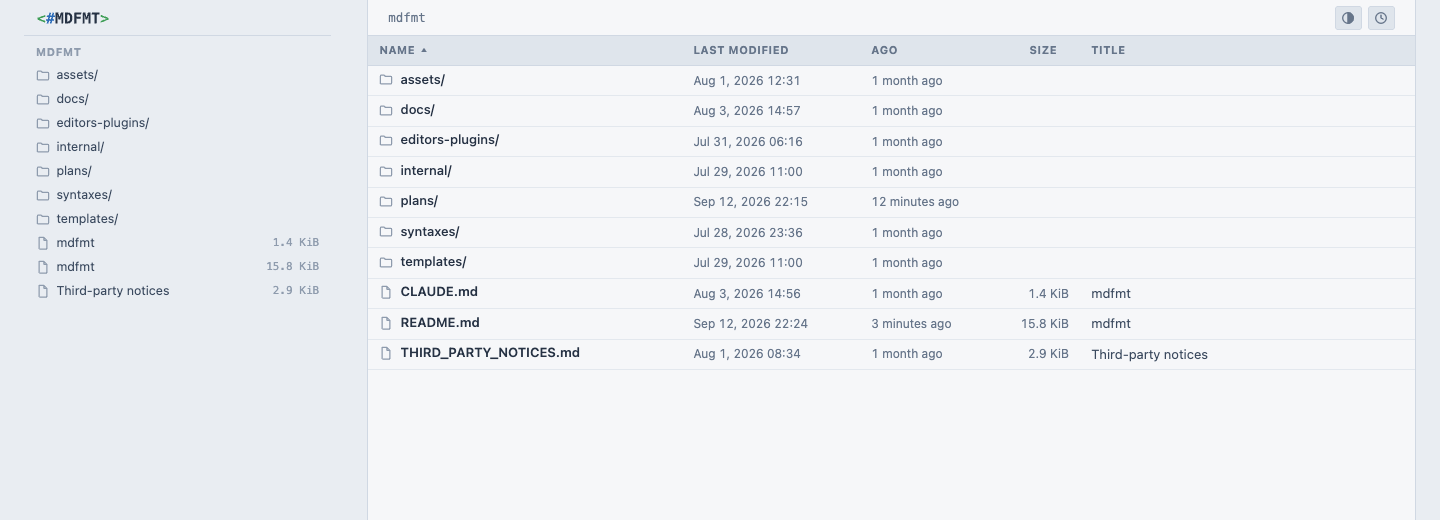
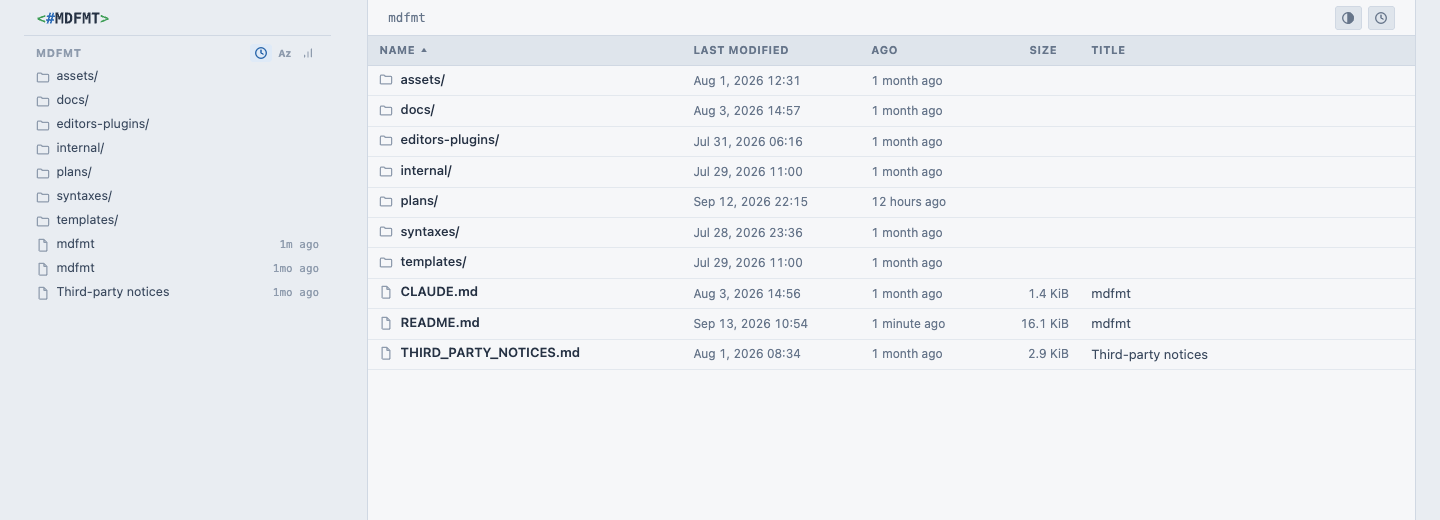
Show ages in the sidebar and add a compact file sort control
- sidebar entries show a live compact age instead of the size, with a
  tooltip carrying the filename, title, modification date, age and size
- a three-button control in the folder heading sorts the entries by most
  recent first (the default), alphabetically, or largest first, with one
  fixed direction per mode; the entry detail switches to sizes when
  sorting by size; the choice persists under its own key, separately
  from the directory table
- the directory table's storage-plus-cookie persistence moved into a shared
  persistedSetting helper used by both sorts; the name comparison uses one
  hoisted collator and each control reads its valid keys off its buttons
- the relative-time refresh keeps its element list and only writes changed
  labels, and the sidebar reorders through a fragment only when the order
  differs
- on narrow screens a tap on the toolbar age reveals the full timestamp
- README note; screenshots retaken

Claude-Session: https://claude.ai/code/session_01KQ5x72pF3KnT7LzZKj2aUm

diff --git a/assets/app.js b/assets/app.js
@@ -119,17 +119,20 @@
       return "just now";
     };
 
+    // The server renders the same strings, so the periodic refresh only
+    // touches an element whose label has actually changed.
+    const relativeTimes = Array.from(document.querySelectorAll("time[data-relative-time]"));
     const updateRelativeTimes = () => {
-      for (const element of document.querySelectorAll("time[data-relative-time]")) {
+      for (const element of relativeTimes) {
         const value = relativeAge(
           element.dateTime,
           element.dataset.relativeStyle === "compact",
         );
-        if (value) element.textContent = value;
+        if (value && element.textContent !== value) element.textContent = value;
       }
     };
     updateRelativeTimes();
-    if (document.querySelector("time[data-relative-time]")) {
+    if (relativeTimes.length) {
       setInterval(updateRelativeTimes, 60 * 1000);
     }
 
@@ -194,7 +197,7 @@
           title.className = "name";
           title.textContent = record.title || record.url;
           const age = document.createElement("span");
-          age.className = "size";
+          age.className = "detail";
           age.textContent = relativeAge(record.updated, true);
           link.append(title, age);
           recentMenu.append(link);
@@ -216,6 +219,12 @@
         recentMenu.hidden = !open;
       });
     }
+
+    // On narrow screens the full timestamp is hidden; a tap on the age
+    // reveals it.
+    document.querySelector(".page-meta time")?.addEventListener("click", (event) => {
+      event.currentTarget.parentElement.classList.toggle("show-detail");
+    });
 
     const topLink = document.querySelector("[data-top]");
     if (topLink) {
@@ -322,26 +331,94 @@
       addEventListener("pagehide", savePosition);
     }
 
+    // A JSON setting kept in localStorage with a path-wide cookie fallback,
+    // so it survives when one of the two is unavailable.
+    const persistedSetting = (storageKey, cookieKey) => ({
+      load: () => {
+        try {
+          const value = JSON.parse(localStorage.getItem(storageKey));
+          if (value) return value;
+        } catch {
+          // Try the cookie below.
+        }
+        try {
+          const prefix = `${cookieKey}=`;
+          const cookie = document.cookie
+            .split(";")
+            .map((part) => part.trim())
+            .find((part) => part.startsWith(prefix));
+          if (!cookie) return null;
+          const serialized = decodeURIComponent(cookie.slice(prefix.length));
+          const value = JSON.parse(serialized);
+          localStorage.setItem(storageKey, serialized);
+          return value;
+        } catch {
+          return null;
+        }
+      },
+      save: (value) => {
+        const serialized = JSON.stringify(value);
+        try {
+          localStorage.setItem(storageKey, serialized);
+        } catch {
+          // Fall through to the path-wide cookie.
+        }
+        try {
+          document.cookie =
+            `${cookieKey}=${encodeURIComponent(serialized)}; Path=/; ` +
+            "Max-Age=31536000; SameSite=Lax";
+        } catch {
+          // The setting still applies to this page when storage is disabled.
+        }
+      },
+    });
+    const collator = new Intl.Collator(undefined, { numeric: true, sensitivity: "base" });
+    const compare = (left, right, key) => {
+      if (key === "name") return collator.compare(left.dataset.name, right.dataset.name);
+      return Number(left.dataset[key]) - Number(right.dataset[key]);
+    };
+    const sortKeysOf = (buttons) => new Set(buttons.map((button) => button.dataset.sortKey));
+
+    // The sidebar file list: one fixed direction per key, most recent first
+    // by default, remembered separately from the directory table.
+    const fileList = document.querySelector("[data-file-list]");
+    const sortControl = document.querySelector("[data-sidebar-sort]");
+    if (fileList && sortControl) {
+      const entries = Array.from(fileList.querySelectorAll("a[data-name]"));
+      const sortButtons = Array.from(sortControl.querySelectorAll("button[data-sort-key]"));
+      const descendingKeys = new Set(["modified", "size"]);
+      const setting = persistedSetting("mdfmt.sidebar-sort", "mdfmt_sidebar_sort");
+      const applyFileSort = (key, persist) => {
+        const sign = descendingKeys.has(key) ? -1 : 1;
+        const ordered = entries.slice().sort((left, right) => sign * compare(left, right, key));
+        if (ordered.some((entry, index) => entry !== entries[index])) {
+          const fragment = document.createDocumentFragment();
+          fragment.append(...ordered);
+          fileList.append(fragment);
+          entries.splice(0, entries.length, ...ordered);
+        }
+        fileList.dataset.sort = key;
+        for (const button of sortButtons) {
+          button.setAttribute("aria-pressed", String(button.dataset.sortKey === key));
+        }
+        if (persist) setting.save(key);
+      };
+      const saved = setting.load();
+      applyFileSort(sortKeysOf(sortButtons).has(saved) ? saved : "modified", false);
+      for (const button of sortButtons) {
+        button.addEventListener("click", () => applyFileSort(button.dataset.sortKey, true));
+      }
+    }
+
     const table = document.querySelector(".directory-table[data-sortable]");
     if (!table) return;
 
     const body = table.querySelector("tbody");
     const buttons = Array.from(table.querySelectorAll("button[data-sort-key]"));
-    const storageKey = "mdfmt.directory-sort";
-    const cookieKey = "mdfmt_directory_sort";
-    const validKeys = new Set(["name", "modified", "size"]);
+    const validKeys = sortKeysOf(buttons);
+    const setting = persistedSetting("mdfmt.directory-sort", "mdfmt_directory_sort");
     let activeKey = "name";
     let direction = "ascending";
-
-    const compare = (left, right, key) => {
-      if (key === "name") {
-        return left.dataset.name.localeCompare(right.dataset.name, undefined, {
-          numeric: true,
-          sensitivity: "base",
-        });
-      }
-      return Number(left.dataset[key]) - Number(right.dataset[key]);
-    };
 
     const applySort = (key, nextDirection, persist) => {
       activeKey = key;
@@ -363,44 +440,10 @@
       const activeButton = buttons.find((button) => button.dataset.sortKey === key);
       activeButton.closest("th").setAttribute("aria-sort", direction);
 
-      if (persist) {
-        const serialized = JSON.stringify({ key, direction });
-        try {
-          localStorage.setItem(storageKey, serialized);
-        } catch {
-          // Fall through to the path-wide cookie.
-        }
-        try {
-          document.cookie =
-            `${cookieKey}=${encodeURIComponent(serialized)}; Path=/; ` +
-            "Max-Age=31536000; SameSite=Lax";
-        } catch {
-          // Sorting still works when browser storage is disabled.
-        }
-      }
+      if (persist) setting.save({ key, direction });
     };
 
-    let saved = null;
-    try {
-      saved = JSON.parse(localStorage.getItem(storageKey));
-    } catch {
-      // Try the cookie below.
-    }
-    if (!saved) {
-      try {
-        const prefix = `${cookieKey}=`;
-        const cookie = document.cookie
-          .split(";")
-          .map((part) => part.trim())
-          .find((part) => part.startsWith(prefix));
-        if (cookie) {
-          saved = JSON.parse(decodeURIComponent(cookie.slice(prefix.length)));
-          localStorage.setItem(storageKey, JSON.stringify(saved));
-        }
-      } catch {
-        // Use the filename-ascending default when storage is unavailable or invalid.
-      }
-    }
+    const saved = setting.load();
     if (
       saved &&
       validKeys.has(saved.key) &&

diff --git a/templates/page.html b/templates/page.html
@@ -22,6 +22,8 @@
 {{define "icon-back"}}<svg class="icon" width="14" height="14" viewBox="0 0 16 16" aria-hidden="true"><path d="M10 3 5 8l5 5"/></svg>{{end}}
 {{define "icon-toc"}}<svg class="icon" width="14" height="14" viewBox="0 0 16 16" aria-hidden="true"><path d="M2.5 4h11M2.5 8h11M2.5 12h7"/></svg>{{end}}
 {{define "icon-recent"}}<svg class="icon" width="14" height="14" viewBox="0 0 16 16" aria-hidden="true"><circle cx="8" cy="8" r="6"/><path d="M8 4.5V8l2.5 1.5"/></svg>{{end}}
+{{define "icon-size"}}<svg class="icon" width="12" height="12" viewBox="0 0 16 16" aria-hidden="true"><path d="M3.5 13.5v-3M8 13.5v-7M12.5 13.5V2.5"/></svg>{{end}}
+{{define "sort-control"}}<span class="sort-control" role="group" aria-label="Sort files" data-sidebar-sort><button type="button" data-sort-key="modified" aria-pressed="false" title="Most recent first" aria-label="Most recent first">{{template "icon-recent"}}</button><button type="button" data-sort-key="name" aria-pressed="false" title="Alphabetical" aria-label="Alphabetical"><span class="glyph">Az</span></button><button type="button" data-sort-key="size" aria-pressed="false" title="Largest first" aria-label="Largest first">{{template "icon-size"}}</button></span>{{end}}
 {{define "icon-edit"}}<svg class="icon" width="12" height="12" viewBox="0 0 16 16" aria-hidden="true"><path d="M11.5 2.5l2 2L5 13H3v-2z"/></svg>{{end}}
 {{define "theme-button"}}<button class="theme-button" type="button" data-theme-toggle data-mode="system" aria-label="Theme: follows system" title="Theme: follows system"><svg class="icon icon-system" width="14" height="14" viewBox="0 0 16 16" aria-hidden="true"><circle cx="8" cy="8" r="6"/><path d="M8 2a6 6 0 0 1 0 12z" fill="currentColor"/></svg><svg class="icon icon-light" width="14" height="14" viewBox="0 0 16 16" aria-hidden="true"><circle cx="8" cy="8" r="3"/><path d="M8 1.5v2M8 12.5v2M1.5 8h2M12.5 8h2M3.4 3.4l1.4 1.4M11.2 11.2l1.4 1.4M3.4 12.6l1.4-1.4M11.2 4.8l1.4-1.4"/></svg><svg class="icon icon-dark" width="14" height="14" viewBox="0 0 16 16" aria-hidden="true"><path d="M13.5 9.5A5.5 5.5 0 0 1 6.5 2.5a5.5 5.5 0 1 0 7 7z"/></svg></button>{{end}}
 {{define "logo"}}<svg viewBox="0 0 493 92.9" width="74" height="14" role="img" aria-label="mdfmt"><path transform="translate(5.70,82.90) scale(0.048828,-0.048828)" class="logo-green" d="M1145 926 350 641 1145 358V109L88 524V760L1145 1176Z"/><path transform="translate(65.91,82.90) scale(0.048828,-0.048828)" class="logo-blue" d="M707 1470 612 1096H815L909 1470H1133L1036 1096H1229V881H983L909 588H1114V373H856L762 0H541L635 373H430L336 0H115L209 373H2V588H262L336 881H117V1096H391L485 1470ZM762 881H557L483 588H688Z"/><path transform="translate(126.11,82.90) scale(0.048828,-0.048828)" class="logo-text" d="M86 1493H438L616 838L793 1493H1147V0H893V1196L735 543H500L340 1196V0H86Z"/><path transform="translate(186.32,82.90) scale(0.048828,-0.048828)" class="logo-text" d="M432 1227V266H512Q686 266 760.0 375.5Q834 485 834 748Q834 1009 760.0 1118.0Q686 1227 512 1227ZM137 1493H453Q819 1493 980.0 1318.5Q1141 1144 1141 748Q1141 351 980.0 175.5Q819 0 453 0H137Z"/><path transform="translate(246.52,82.90) scale(0.048828,-0.048828)" class="logo-text" d="M1112 1233H477V911H1055V651H477V0H182V1493H1112Z"/><path transform="translate(306.73,82.90) scale(0.048828,-0.048828)" class="logo-text" d="M86 1493H438L616 838L793 1493H1147V0H893V1196L735 543H500L340 1196V0H86Z"/><path transform="translate(366.93,82.90) scale(0.048828,-0.048828)" class="logo-text" d="M764 0H469V1235H90V1493H1143V1235H764Z"/><path transform="translate(427.14,82.90) scale(0.048828,-0.048828)" class="logo-green" d="M88 926V1176L1145 760V524L88 109V358L883 641Z"/></svg>{{end}}
@@ -149,11 +151,11 @@
         {{range .Projects}}<a class="nav-entry directory{{if .Active}} active{{end}}" href="{{.URL}}"{{if .Active}} aria-current="true"{{end}}>{{template "icon-folder"}}<span class="name">{{.Title}}/</span></a>{{end}}
       </nav>
       {{end}}
-      <div class="sidebar-title">{{.Directory}}</div>
+      <div class="sidebar-title"><span>{{.Directory}}</span>{{if .Files}}{{template "sort-control"}}{{end}}</div>
       {{with .Parent}}<nav class="parent-navigation"><a class="nav-entry parent" href="{{.URL}}">{{template "icon-back"}}<span class="name">{{.Title}}</span></a></nav>{{end}}
-      <nav>
+      <nav data-file-list>
         {{range .Directories}}<a class="nav-entry directory" href="{{.URL}}">{{template "icon-folder"}}<span class="name">{{.Title}}/</span></a>{{end}}
-        {{range .Files}}<a class="nav-entry{{if .Active}} active{{end}}" href="{{.URL}}"{{if .Active}} aria-current="page"{{end}}>{{template "icon-file"}}<span class="name">{{.Title}}</span>{{with .Size}}<span class="size">{{.}}</span>{{end}}</a>{{end}}
+        {{range .Files}}<a class="nav-entry{{if .Active}} active{{end}}" href="{{.URL}}"{{if .Active}} aria-current="page"{{end}} title="{{.Name}}&#10;{{.Title}}&#10;{{.Modified}} · {{.Ago}} · {{.Size}}" data-name="{{.Name}}" data-modified="{{.SortModified}}" data-size="{{.SortSize}}">{{template "icon-file"}}<span class="name">{{.Title}}</span><time class="detail age" datetime="{{.ModifiedFull}}" data-relative-time data-relative-style="compact">{{.AgoCompact}}</time><span class="detail size">{{.Size}}</span></a>{{end}}
       </nav>
     </aside>
 

diff --git a/assets/style.css b/assets/style.css
@@ -101,6 +101,10 @@ a:hover { text-decoration: underline; }
 .logo-text { fill: currentColor; }
 
 .sidebar-title {
+  display: flex;
+  gap: .5rem;
+  align-items: center;
+  justify-content: space-between;
   margin: .5rem 0 .15rem;
   padding: 0 .75rem;
   color: var(--faint);
@@ -109,6 +113,33 @@ a:hover { text-decoration: underline; }
   letter-spacing: .06em;
   text-transform: uppercase;
 }
+
+.sort-control { display: inline-flex; flex: 0 0 auto; gap: 2px; }
+
+.sort-control button {
+  display: inline-flex;
+  align-items: center;
+  justify-content: center;
+  appearance: none;
+  min-width: 1.35rem;
+  height: 1.15rem;
+  border: 0;
+  border-radius: 3px;
+  background: none;
+  padding: 0 .2rem;
+  color: var(--faint);
+  cursor: pointer;
+  font: inherit;
+  letter-spacing: 0;
+  text-transform: none;
+}
+
+.sort-control .glyph { font-size: 10px; font-weight: 700; line-height: 1; }
+.sort-control button[aria-pressed="true"] { background: var(--accent-soft); color: var(--accent); }
+
+/* The entry detail follows the sort: size when sorting by size, else age. */
+[data-file-list]:not([data-sort="size"]) .detail.size,
+[data-file-list][data-sort="size"] .detail.age { display: none; }
 
 .nav-entry {
   display: flex;
@@ -125,7 +156,7 @@ a:hover { text-decoration: underline; }
 
 .nav-entry .icon { color: var(--faint); }
 .nav-entry .name { flex: 1 1 auto; min-width: 0; overflow: hidden; text-overflow: ellipsis; }
-.nav-entry .size { color: var(--faint); font-family: var(--mono); font-size: 11px; }
+.nav-entry .detail { color: var(--faint); font-family: var(--mono); font-size: 11px; }
 
 .nav-entry:hover { background: var(--hover); color: var(--text); text-decoration: none; }
 
@@ -417,7 +448,9 @@ th { background: var(--panel); color: var(--text-secondary); font-weight: 600; }
 }
 
 .directory-table th button:hover,
-.directory-table th button:focus-visible {
+.directory-table th button:focus-visible,
+.sort-control button:hover,
+.sort-control button:focus-visible {
   color: var(--accent);
 }
 
@@ -537,6 +570,7 @@ th { background: var(--panel); color: var(--text-secondary); font-weight: 600; }
   .menu-button .icon { width: 20px; height: 20px; }
   .page-menu { padding: .35rem; }
   .page-menu .nav-entry { height: 2.5rem; }
+  .sort-control button { min-width: 2.5rem; height: 2.5rem; }
 }
 
 @media (max-width: 900px) {
@@ -572,7 +606,8 @@ th { background: var(--panel); color: var(--text-secondary); font-weight: 600; }
   .breadcrumbs { flex: 1 0 100%; }
   .page-toolbar:not(:has(.page-meta)) .breadcrumbs { flex: 1 1 auto; }
   .page-meta { flex: 1 1 auto; white-space: normal; }
-  .meta-detail { display: none; }
+  .page-meta time { cursor: pointer; }
+  .page-meta:not(.show-detail) .meta-detail { display: none; }
 
   .toc-button { display: inline-flex; }
   html.toc-open .right-sidebar {

diff --git a/server_test.go b/server_test.go
@@ -892,6 +892,21 @@ func TestWebManifestAndReadingPositionMarkup(t *testing.T) {
 	if !strings.Contains(guide, `data-toc-toggle`) || !strings.Contains(guide, `data-recent-toggle`) {
 		t.Errorf("document with headings lacks the toolbar buttons:\n%s", guide)
 	}
+	for _, want := range []string{
+		`data-sidebar-sort`,
+		`<button type="button" data-sort-key="modified"`,
+		`<nav data-file-list>`,
+		`title="plain.md&#10;plain&#10;`,
+		`data-name="plain.md"`,
+		`data-modified="`,
+		`data-size="18"`,
+		`class="detail age"`,
+		`class="detail size"`,
+	} {
+		if !strings.Contains(guide, want) {
+			t.Errorf("sidebar entry lacks %q:\n%s", want, guide)
+		}
+	}
 	plain := request(t, server, "/plain.md").Body.String()
 	if strings.Contains(plain, `data-toc-toggle`) {
 		t.Errorf("document without headings has a table-of-contents button:\n%s", plain)

diff --git a/server.go b/server.go
@@ -143,6 +143,7 @@ type navEntry struct {
 	Modified     string
 	ModifiedFull string
 	Ago          string
+	AgoCompact   string
 	Size         string
 	SortModified int64
 	SortSize     int64
@@ -157,6 +158,7 @@ func (e *navEntry) setModified(modTime, now time.Time) {
 	e.Modified = modTime.Format("Jan 2, 2006 15:04")
 	e.ModifiedFull = modTime.Format(time.RFC3339)
 	e.Ago = humanAgo(modTime, now)
+	e.AgoCompact = humanAgoCompact(modTime, now)
 	e.SortModified = modTime.UnixNano()
 }
 

diff --git a/README.md b/README.md
@@ -298,6 +298,12 @@ browser. Positions are stored in the browser's `localStorage`, keyed by the
 document's path relative to the site root, so they survive a rebuild with a
 new path token.
 
+The left sidebar lists the current folder's documents with their age. A
+small control in the folder heading sorts them by most recent first, the
+default, alphabetically, or largest first; the choice is remembered in the
+browser, separately from the directory listing's own sort. Hovering an entry
+shows its filename, title, modification date, age, and size.
+
 The toolbar has two additional buttons next to the theme toggle:
 
 * a recent-documents menu listing the 20 most recently viewed documents,
